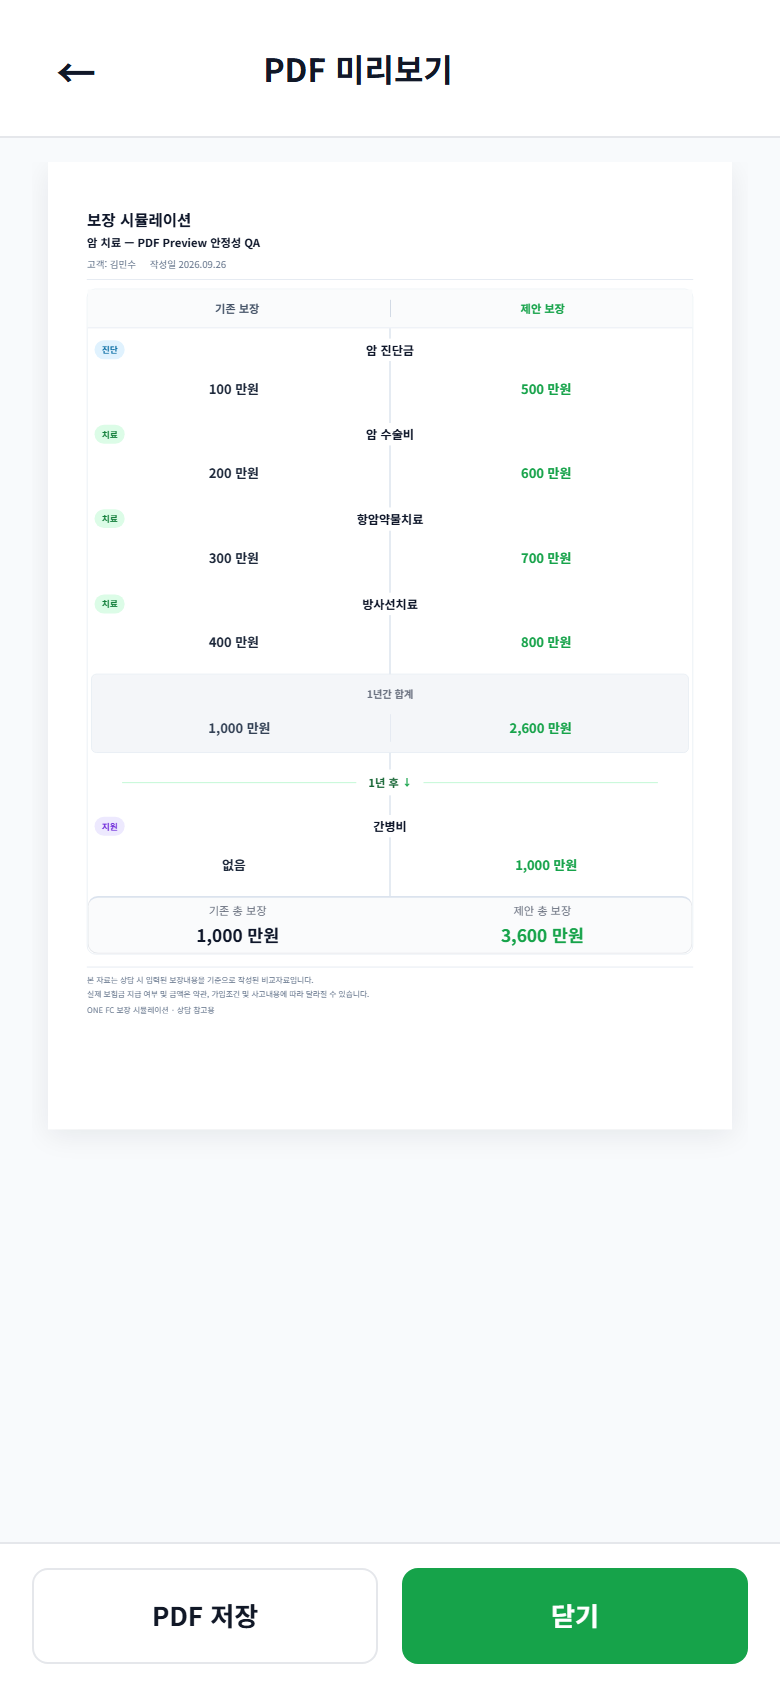
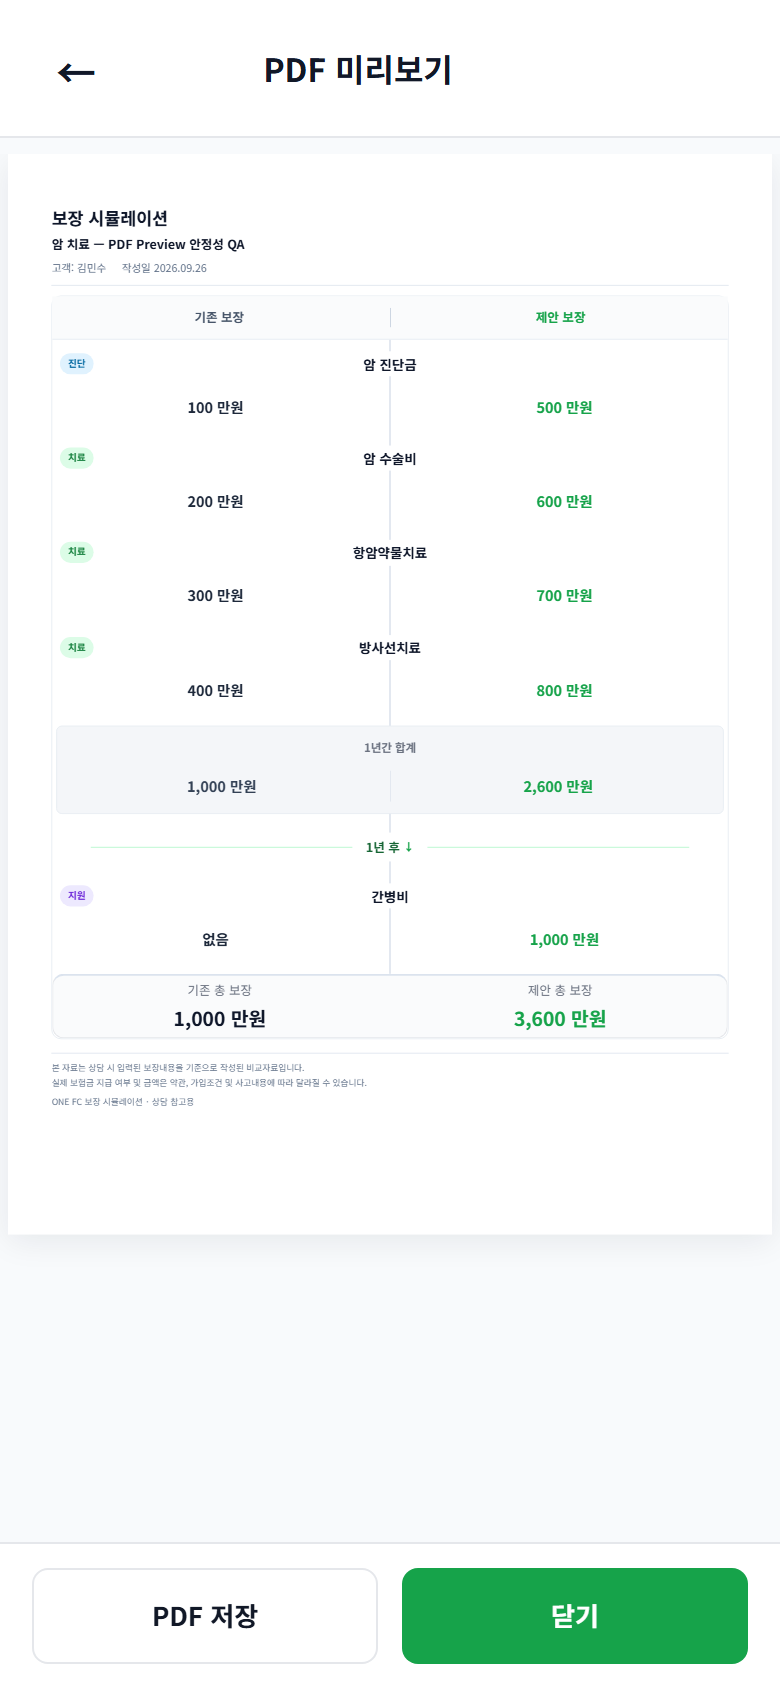
fix(coverage-simulator): widen mobile PDF preview and optically center badge glyphs

diff --git a/src/features/coverage-simulator/pdf/coveragePdfTitleTextSafety.ts b/src/features/coverage-simulator/pdf/coveragePdfTitleTextSafety.ts
@@ -30,6 +30,14 @@ export const COVERAGE_PDF_INLINE_BADGE_STYLES: Partial<CSSStyleDeclaration> = {
   transform: 'none',
 }
 
+/** html2canvas raster — 한글 badge glyph optical center (print namespace only). */
+export const COVERAGE_PDF_INLINE_BADGE_GLYPH_STYLES: Partial<CSSStyleDeclaration> = {
+  display: 'block',
+  margin: '0',
+  lineHeight: '1',
+  transform: 'translateY(-0.75px)',
+}
+
 export type CoveragePdfTitleSafetyIssue = {
   label: string
   reason: string
@@ -192,6 +200,9 @@ export function applyCoveragePdfCaptureCloneFixes(root: HTMLElement): void {
 
   root.querySelectorAll<HTMLElement>('.coverage-simulator-badge').forEach((badge) => {
     Object.assign(badge.style, COVERAGE_PDF_INLINE_BADGE_STYLES)
+    badge.querySelectorAll<HTMLElement>('.coverage-simulator-badge__glyph').forEach((glyph) => {
+      Object.assign(glyph.style, COVERAGE_PDF_INLINE_BADGE_GLYPH_STYLES)
+    })
   })
 
   root.querySelectorAll<HTMLElement>('.cs-axis-amount__value').forEach((amount) => {

diff --git a/src/features/coverage-simulator/pdf/coveragePdfPreviewZoomMath.test.ts b/src/features/coverage-simulator/pdf/coveragePdfPreviewZoomMath.test.ts
@@ -1,13 +1,23 @@
 import { describe, expect, it } from 'vitest'
 
 import {
+  COVERAGE_PDF_PREVIEW_HORIZONTAL_GUTTER_PX,
+  computeFitAvailableWidth,
   computeFitScale,
   shouldUpdateFitScale,
 } from './coveragePdfPreviewZoomMath'
 
 describe('coveragePdfPreviewZoomMath', () => {
+  it('reserves a minimal preview gutter outside the PDF viewport', () => {
+    expect(COVERAGE_PDF_PREVIEW_HORIZONTAL_GUTTER_PX).toBe(8)
+    expect(computeFitAvailableWidth(390)).toBe(382)
+  })
+
   it('computes fit scale from viewport width', () => {
-    expect(computeFitScale(360, 794)).toBeCloseTo(360 / 794, 4)
+    expect(computeFitScale(computeFitAvailableWidth(360), 794)).toBeCloseTo(
+      (360 - 8) / 794,
+      4,
+    )
   })
 
   it('does not upscale documents wider than the viewport', () => {

diff --git a/src/features/coverage-simulator/pdf/coveragePdfTitleTextSafety.test.ts b/src/features/coverage-simulator/pdf/coveragePdfTitleTextSafety.test.ts
@@ -1,6 +1,7 @@
 import { describe, expect, it } from 'vitest'
 
 import {
+  COVERAGE_PDF_INLINE_BADGE_GLYPH_STYLES,
   COVERAGE_PDF_INLINE_BADGE_STYLES,
   COVERAGE_PDF_INLINE_TITLE_LABEL_STYLES,
 } from './coveragePdfTitleTextSafety'
@@ -21,5 +22,10 @@ describe('coveragePdfTitleTextSafety', () => {
     expect(COVERAGE_PDF_INLINE_BADGE_STYLES.lineHeight).toBe('1')
     expect(COVERAGE_PDF_INLINE_BADGE_STYLES.padding).toBe('0 8px')
     expect(COVERAGE_PDF_INLINE_BADGE_STYLES.transform).toBe('none')
+  })
+
+  it('applies optical glyph correction for Korean badge raster', () => {
+    expect(COVERAGE_PDF_INLINE_BADGE_GLYPH_STYLES.lineHeight).toBe('1')
+    expect(COVERAGE_PDF_INLINE_BADGE_GLYPH_STYLES.transform).toBe('translateY(-0.75px)')
   })
 })

diff --git a/src/features/coverage-simulator/components/CoveragePdfPreviewZoomSurface.tsx b/src/features/coverage-simulator/components/CoveragePdfPreviewZoomSurface.tsx
@@ -15,6 +15,7 @@ import {
 } from '../../../components/news-detail-viewer/useNewsDetailViewerZoomAnchor'
 import { COVERAGE_PDF_CAPTURE_WIDTH_PX } from '../pdf/coveragePdfCapture'
 import {
+  computeFitAvailableWidth,
   computeFitScale,
   shouldUpdateFitScale,
 } from '../pdf/coveragePdfPreviewZoomMath'
@@ -92,8 +93,7 @@ export function CoveragePdfPreviewZoomSurface({ children, documentKey }: Props) 
           resizeCallbackCountRef.current,
         )
       }
-      const padding = 16
-      const available = Math.max(1, viewport.clientWidth - padding)
+      const available = computeFitAvailableWidth(viewport.clientWidth)
       const next = computeFitScale(
         available,
         COVERAGE_PDF_CAPTURE_WIDTH_PX,

diff --git a/src/features/coverage-simulator/pdf/printDocument.css b/src/features/coverage-simulator/pdf/printDocument.css
@@ -456,6 +456,12 @@
     overflow: hidden;
   }
 
+  .coverage-simulator-pdf-preview-shell .coverage-simulator-content.coverage-simulator-pdf-preview {
+    padding-left: 0;
+    padding-right: 0;
+    padding-top: var(--cs-space-2, 8px);
+  }
+
   .coverage-simulator-pdf-preview {
     display: flex;
     flex: 1 1 auto;
@@ -591,6 +597,13 @@
   overflow: visible;
   vertical-align: middle;
   transform: none;
+}
+
+.coverage-simulator-print-root--korean-text-safe .coverage-simulator-badge__glyph {
+  display: block;
+  margin: 0;
+  line-height: 1;
+  transform: translateY(-0.75px);
 }
 
 .coverage-simulator-print-root--korean-text-safe .cs-axis-amount__value,

diff --git a/src/features/coverage-simulator/pdf/coveragePdfPreviewZoomMath.ts b/src/features/coverage-simulator/pdf/coveragePdfPreviewZoomMath.ts
@@ -1,5 +1,12 @@
 export const COVERAGE_PDF_FIT_SCALE_EPSILON = 0.001
 
+/** Preview viewport 좌우 visual gutter 합 (각 4px). CTA/content shell padding과 분리. */
+export const COVERAGE_PDF_PREVIEW_HORIZONTAL_GUTTER_PX = 8
+
+export function computeFitAvailableWidth(viewportClientWidth: number): number {
+  return Math.max(1, viewportClientWidth - COVERAGE_PDF_PREVIEW_HORIZONTAL_GUTTER_PX)
+}
+
 export function computeFitScale(availableWidth: number, documentNaturalWidth: number): number {
   if (!Number.isFinite(availableWidth) || availableWidth <= 0) return 1
   if (!Number.isFinite(documentNaturalWidth) || documentNaturalWidth <= 0) return 1

diff --git a/src/features/coverage-simulator/components/CoverageBadge.tsx b/src/features/coverage-simulator/components/CoverageBadge.tsx
@@ -2,5 +2,9 @@ import type { ScenarioItemCategory } from '../domain/types'
 import { categoryLabel } from '../domain/itemCatalog'
 
 export function CoverageBadge({ category }: { category: ScenarioItemCategory }) {
-  return <span className={`coverage-simulator-badge coverage-simulator-badge--${category}`}>{categoryLabel(category)}</span>
+  return (
+    <span className={`coverage-simulator-badge coverage-simulator-badge--${category}`}>
+      <span className="coverage-simulator-badge__glyph">{categoryLabel(category)}</span>
+    </span>
+  )
 }
